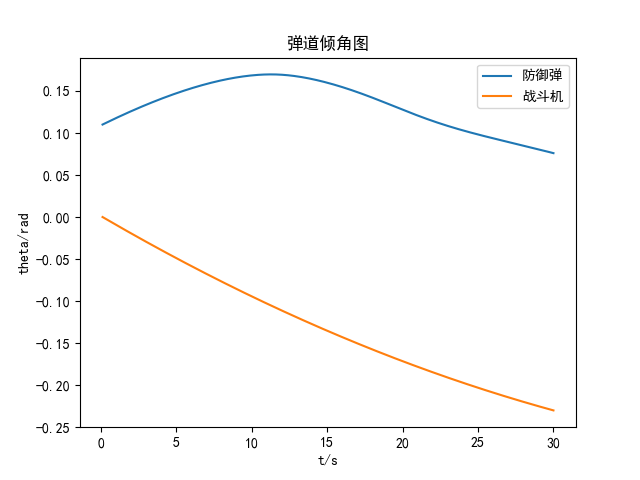
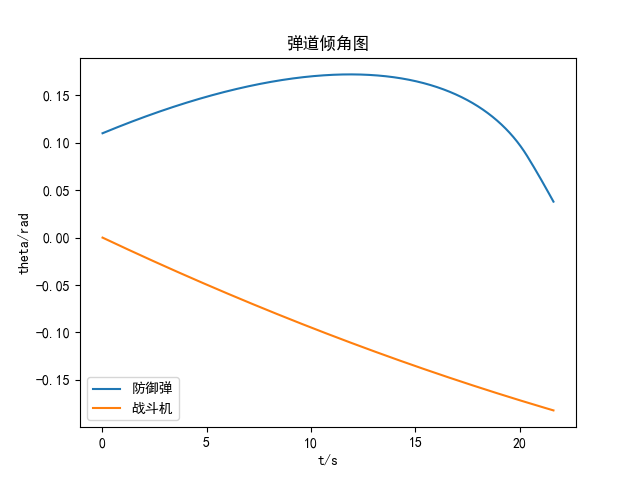
终于改好了

diff --git a/no-policy.py b/no-policy.py
@@ -5,10 +5,11 @@ import matplotlib.pyplot as plt
 plt.rcParams['font.sans-serif'] = ['SimHei']  # 指定默认字体
 plt.rcParams['axes.unicode_minus'] = False  # 解决保存图像时负号'-'显示为方块的问题
 
-myenv = FighterEnv_nopolicy(True , dt=0.1 ,Dt = 0.1)
+myenv = FighterEnv_nopolicy(True , dt=0.01 ,Dt = 0.01)
 
 
-
+r = np.array(myenv.plotdata["defender"]["r"])
+print(min(r))
 
 
 
